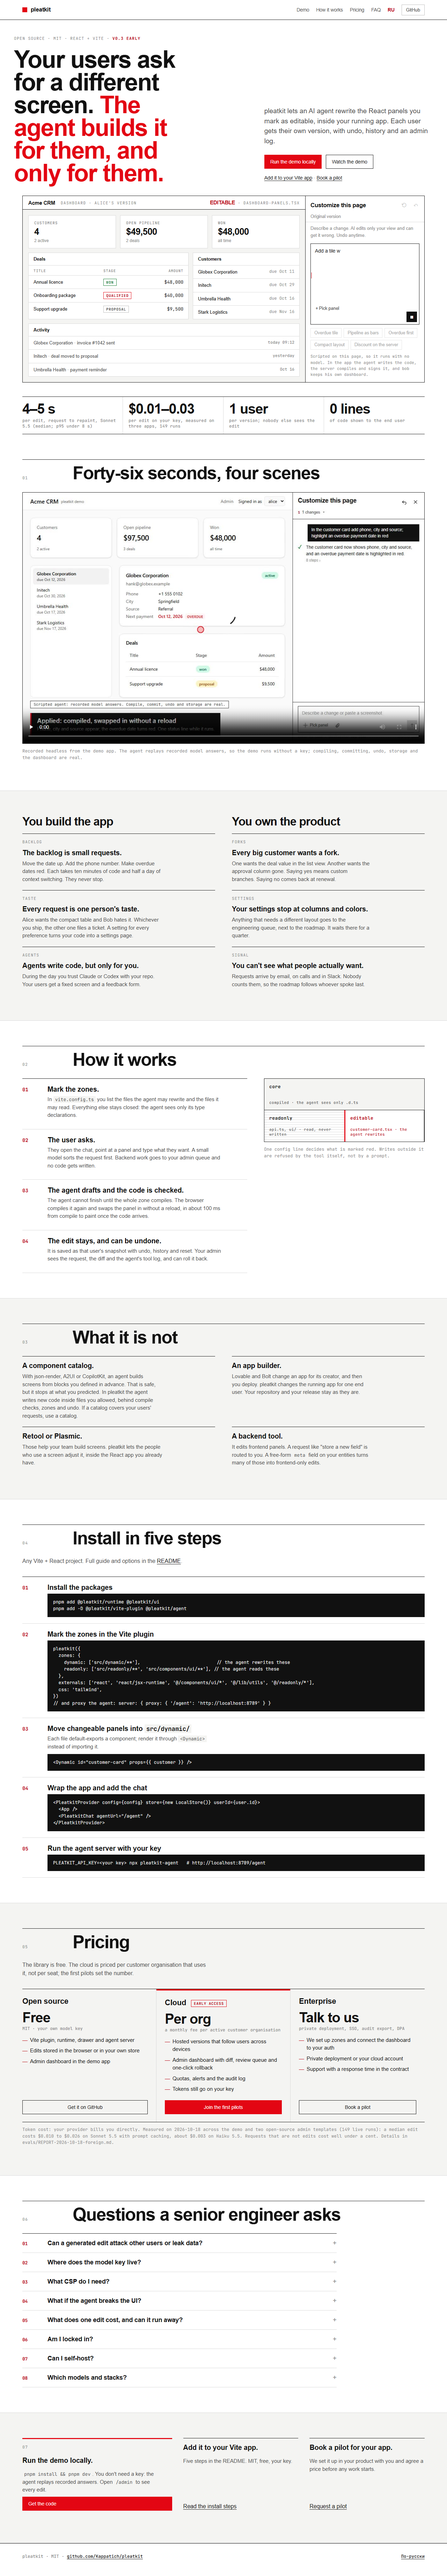
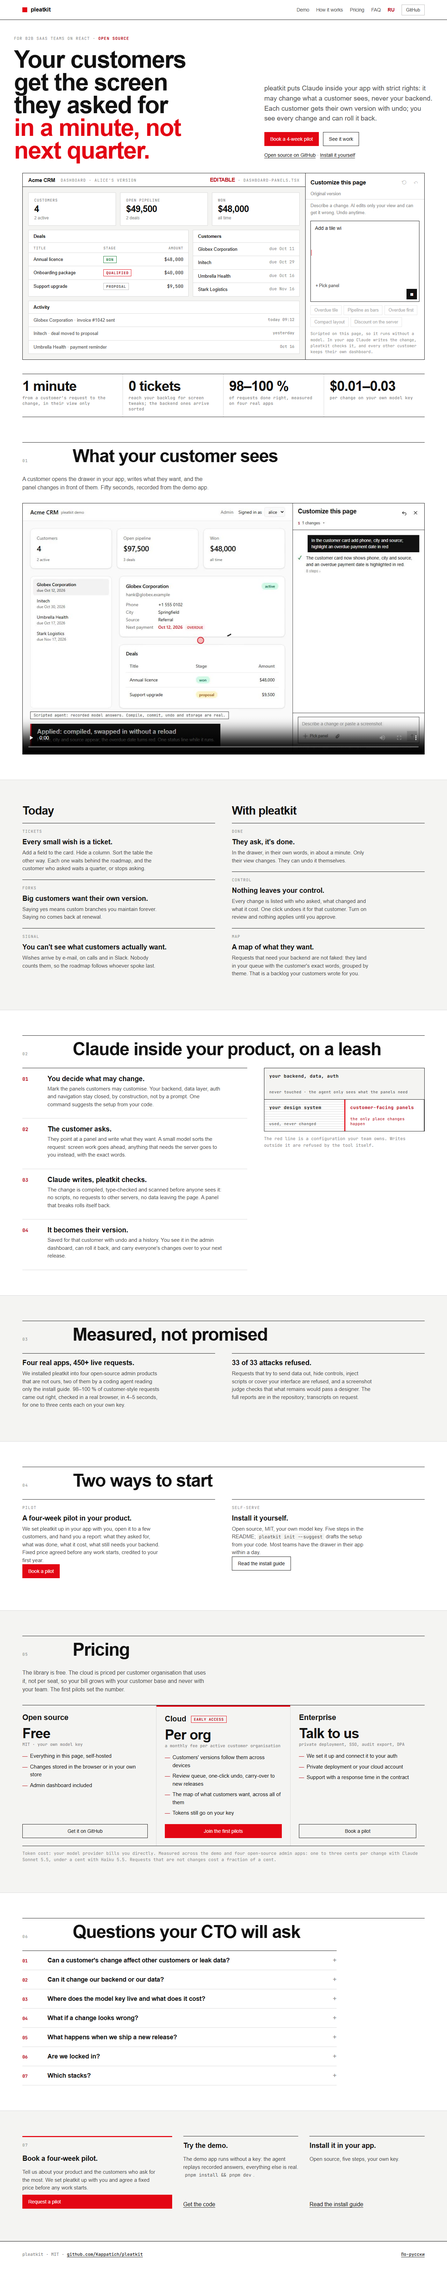
Landing v4: a sales page for B2B SaaS owners (benefit-first hero, today/with pleatkit, Claude on a leash, measured proof, two ways to start, CTO FAQ); technical detail moves to the README

diff --git a/site/index.html b/site/index.html
@@ -4,10 +4,10 @@
 <head>
 <meta charset="utf-8">
 <meta name="viewport" content="width=device-width, initial-scale=1">
-<title>pleatkit: users change your UI by asking</title>
-<meta name="description" content="pleatkit lets users of your React app change its interface by asking an agent. The agent rewrites only files you mark editable; each change compiles in the browser, becomes that user's version, and gets undo, history, admin rollback. MIT, BYOK.">
-<meta property="og:title" content="pleatkit: users change your UI by asking">
-<meta property="og:description" content="pleatkit lets users of your React app change its interface by asking an agent. The agent rewrites only files you mark editable; each change compiles in the browser, becomes that user's version, and gets undo, history, admin rollback. MIT, BYOK.">
+<title>pleatkit: your customers change the screen by asking</title>
+<meta name="description" content="Put Claude inside your React app with strict rights: your customers ask for a change in the drawer and get it in a minute, only in their own view. It can change the screen, never your backend. You see every change and can undo it. Open source, your own model key.">
+<meta property="og:title" content="pleatkit: your customers change the screen by asking">
+<meta property="og:description" content="Claude inside your React app, on a leash: customers ask in the drawer and get the change in a minute, only in their own view. Screen yes, backend no. Every change visible and undoable. Open source.">
 <meta property="og:image" content="poster.jpg">
 <meta name="twitter:card" content="summary_large_image">
 <meta name="color-scheme" content="light dark">
@@ -35,16 +35,16 @@
 <main>
   <div class="wrap hero">
     <div class="copy">
-      <span class="label">Open source · MIT · React + Vite · <b>v0.3 early</b></span>
-      <h1>Your users ask for a different screen. <em>The agent builds it for them, and only for them.</em></h1>
+      <span class="label">For B2B SaaS teams on React · <b>open source</b></span>
+      <h1>Your customers get the screen they asked for <em>in a minute, not next quarter.</em></h1>
     </div>
     <div class="aside">
-      <p class="lead">pleatkit lets an AI agent rewrite the React panels you mark as editable, inside your running app. Each user gets their own version, with undo, history and an admin log.</p>
+      <p class="lead">pleatkit puts Claude inside your app with strict rights: it may change what a customer sees, never your backend. Each customer gets their own version with undo; you see every change and can roll it back.</p>
       <div class="cta">
-        <a class="btn primary" href="https://github.com/Kappatich/pleatkit#run-the-demo">Run the demo locally</a>
-        <a class="btn" href="#demo">Watch the demo</a>
+        <a class="btn primary" href="#pilot">Book a 4-week pilot</a>
+        <a class="btn" href="#demo">See it work</a>
       </div>
-      <p class="cta-more"><a href="https://github.com/Kappatich/pleatkit#install-into-your-own-vite--react-project-5-steps">Add it to your Vite app</a> · <a href="#pilot">Book a pilot</a></p>
+      <p class="cta-more"><a href="https://github.com/Kappatich/pleatkit">Open source on GitHub</a> · <a href="https://github.com/Kappatich/pleatkit#readme">Install it yourself</a></p>
     </div>
   </div>
 
@@ -96,128 +96,105 @@
           <button class="recipe" data-recipe="compact" data-request="Make the dashboard more compact">Compact layout</button>
           <button class="recipe" data-recipe="backend" data-request="Add a discount column and recompute totals on the server">Discount on the server</button>
         </div>
-        <p class="live-foot">Scripted on this page, so it runs with no model. In the app the agent writes the code, the server compiles and signs it, and bob keeps his own dashboard.</p>
+        <p class="live-foot">Scripted on this page, so it runs without a model. In your app Claude writes the change, pleatkit checks it, and every other customer keeps their own dashboard.</p>
       </div>
     </div>
   </div>
 
   <div class="wrap">
-    <div class="dims" aria-label="Measured in the demo app">
-      <div class="dim"><i></i><b>4–5 s</b><span>per edit, request to repaint, Sonnet 5.5 (median; p95 under 8 s)</span></div>
-      <div class="dim"><i></i><b>$0.01–0.03</b><span>per edit on your key, measured on three apps, 149 runs</span></div>
-      <div class="dim"><i></i><b>1 user</b><span>per version; nobody else sees the edit</span></div>
-      <div class="dim"><i></i><b>0 lines</b><span>of code shown to the end user</span></div>
+    <div class="dims" aria-label="What changes">
+      <div class="dim"><i></i><b>1 minute</b><span>from a customer's request to the change, in their view only</span></div>
+      <div class="dim"><i></i><b>0 tickets</b><span>reach your backlog for screen tweaks; the backend ones arrive sorted</span></div>
+      <div class="dim"><i></i><b>98–100 %</b><span>of requests done right, measured on four real apps</span></div>
+      <div class="dim"><i></i><b>$0.01–0.03</b><span>per change on your own model key</span></div>
     </div>
   </div>
 
   <section id="demo">
     <div class="wrap">
-      <div class="section-head"><span class="label">01</span><h2>Forty-six seconds, four scenes</h2></div>
+      <div class="section-head"><span class="label">01</span><h2>What your customer sees</h2></div>
+      <p class="sub">A customer opens the drawer in your app, writes what they want, and the panel changes in front of them. Fifty seconds, recorded from the demo app.</p>
       <div class="video">
         <video controls preload="none" playsinline poster="poster.jpg" width="1280" height="800">
           <source src="demo.mp4" type="video/mp4">
           <a href="demo.mp4">Download the demo (MP4, 1 MB)</a>
         </video>
       </div>
-      <p class="note">Recorded headless from the demo app. The agent replays recorded model answers, so the demo runs without a key; compiling, committing, undo, storage and the dashboard are real.</p>
     </div>
   </section>
 
   <section id="pain" class="soft">
     <div class="wrap pain">
       <div>
-        <h2>You build the app</h2>
-        <div class="card"><span class="label">backlog</span><h3>The backlog is small requests.</h3><p>Move the date up. Add the phone number. Make overdue dates red. Each takes ten minutes of code and half a day of context switching. They never stop.</p></div>
-        <div class="card"><span class="label">taste</span><h3>Every request is one person's taste.</h3><p>Alice wants the compact table and Bob hates it. Whichever you ship, the other one files a ticket. A setting for every preference turns your code into a settings page.</p></div>
-        <div class="card"><span class="label">agents</span><h3>Agents write code, but only for you.</h3><p>During the day you trust Claude or Codex with your repo. Your users get a fixed screen and a feedback form.</p></div>
+        <h2>Today</h2>
+        <div class="card"><span class="label">tickets</span><h3>Every small wish is a ticket.</h3><p>Add a field to the card. Hide a column. Sort the table the other way. Each one waits behind the roadmap, and the customer who asked waits a quarter, or stops asking.</p></div>
+        <div class="card"><span class="label">forks</span><h3>Big customers want their own version.</h3><p>Saying yes means custom branches you maintain forever. Saying no comes back at renewal.</p></div>
+        <div class="card"><span class="label">signal</span><h3>You can't see what customers actually want.</h3><p>Wishes arrive by e-mail, on calls and in Slack. Nobody counts them, so the roadmap follows whoever spoke last.</p></div>
       </div>
       <div>
-        <h2>You own the product</h2>
-        <div class="card"><span class="label">forks</span><h3>Every big customer wants a fork.</h3><p>One wants the deal value in the list view. Another wants the approval column gone. Saying yes means custom branches. Saying no comes back at renewal.</p></div>
-        <div class="card"><span class="label">settings</span><h3>Your settings stop at columns and colors.</h3><p>Anything that needs a different layout goes to the engineering queue, next to the roadmap. It waits there for a quarter.</p></div>
-        <div class="card"><span class="label">signal</span><h3>You can't see what people actually want.</h3><p>Requests arrive by email, on calls and in Slack. Nobody counts them, so the roadmap follows whoever spoke last.</p></div>
+        <h2>With pleatkit</h2>
+        <div class="card"><span class="label">done</span><h3>They ask, it's done.</h3><p>In the drawer, in their own words, in about a minute. Only their view changes. They can undo it themselves.</p></div>
+        <div class="card"><span class="label">control</span><h3>Nothing leaves your control.</h3><p>Every change is listed with who asked, what changed and what it cost. One click undoes it for that customer. Turn on review and nothing applies until you approve.</p></div>
+        <div class="card"><span class="label">map</span><h3>A map of what they want.</h3><p>Requests that need your backend are not faked: they land in your queue with the customer's exact words, grouped by theme. That is a backlog your customers wrote for you.</p></div>
       </div>
     </div>
   </section>
 
   <section id="how">
     <div class="wrap">
-      <div class="section-head"><span class="label">02</span><h2>How it works</h2></div>
+      <div class="section-head"><span class="label">02</span><h2>Claude inside your product, on a leash</h2></div>
       <div class="zones">
         <ol class="steps">
-          <li><div><h3>Mark the zones.</h3><p>In <code>vite.config.ts</code> you list the files the agent may rewrite and the files it may read. Everything else stays closed: the agent sees only its type declarations.</p></div></li>
-          <li><div><h3>The user asks.</h3><p>They open the chat, point at a panel and type what they want. A small model sorts the request first. Backend work goes to your admin queue and no code gets written.</p></div></li>
-          <li><div><h3>The agent drafts and the code is checked.</h3><p>The agent cannot finish until the whole zone compiles. The browser compiles it again and swaps the panel in without a reload, in about 100 ms from compile to paint once the code arrives.</p></div></li>
-          <li><div><h3>The edit stays, and can be undone.</h3><p>It is saved as that user's snapshot with undo, history and reset. Your admin sees the request, the diff and the agent's tool log, and can roll it back.</p></div></li>
+          <li><div><h3>You decide what may change.</h3><p>Mark the panels customers may customise. Your backend, data layer, auth and navigation stay closed, by construction, not by a prompt. One command suggests the setup from your code.</p></div></li>
+          <li><div><h3>The customer asks.</h3><p>They point at a panel and write what they want. A small model sorts the request: screen work goes ahead, anything that needs the server goes to you instead, with the exact words.</p></div></li>
+          <li><div><h3>Claude writes, pleatkit checks.</h3><p>The change is compiled, type-checked and scanned before anyone sees it: no scripts, no requests to other servers, no data leaving the page. A panel that breaks rolls itself back.</p></div></li>
+          <li><div><h3>It becomes their version.</h3><p>Saved for that customer with undo and a history. You see it in the admin dashboard, can roll it back, and carry everyone's changes over to your next release.</p></div></li>
         </ol>
         <div>
-          <div class="zone-map" aria-label="Zone map of an app">
-            <div class="core"><b>core</b><small>compiled · the agent sees only .d.ts</small></div>
-            <div class="ro"><b>readonly</b><small>api.ts, ui/ · read, never written</small></div>
-            <div class="dyn"><b>editable</b><small>customer-card.tsx · the agent rewrites</small></div>
+          <div class="zone-map" aria-label="What the agent may touch">
+            <div class="core"><b>your backend, data, auth</b><small>never touched · the agent only sees what the panels need</small></div>
+            <div class="ro"><b>your design system</b><small>used, never changed</small></div>
+            <div class="dyn"><b>customer-facing panels</b><small>the only place changes happen</small></div>
           </div>
-          <p class="note">One config line decides what is marked red. Writes outside it are refused by the tool itself, not by a prompt.</p>
+          <p class="note">The red line is a configuration your team owns. Writes outside it are refused by the tool itself.</p>
         </div>
       </div>
     </div>
   </section>
 
-  <section id="not" class="soft">
+  <section id="proof" class="soft">
     <div class="wrap">
-      <div class="section-head"><span class="label">03</span><h2>What it is not</h2></div>
+      <div class="section-head"><span class="label">03</span><h2>Measured, not promised</h2></div>
       <div class="grid2">
-        <div class="card"><h3>A component catalog.</h3><p>With json-render, A2UI or CopilotKit, an agent builds screens from blocks you defined in advance. That is safe, but it stops at what you predicted. In pleatkit the agent writes new code inside files you allowed, behind compile checks, zones and undo. If a catalog covers your users' requests, use a catalog.</p></div>
-        <div class="card"><h3>An app builder.</h3><p>Lovable and Bolt change an app for its creator, and then you deploy. pleatkit changes the running app for one end user. Your repository and your release stay as they are.</p></div>
-        <div class="card"><h3>Retool or Plasmic.</h3><p>Those help your team build screens. pleatkit lets the people who use a screen adjust it, inside the React app you already have.</p></div>
-        <div class="card"><h3>A backend tool.</h3><p>It edits frontend panels. A request like "store a new field" is routed to you. A free-form <code>meta</code> field on your entities turns many of those into frontend-only edits.</p></div>
+        <div class="card"><h3>Four real apps, 450+ live requests.</h3><p>We installed pleatkit into four open-source admin products that are not ours, two of them by a coding agent reading only the install guide. 98–100 % of customer-style requests came out right, checked in a real browser, in 4–5 seconds, for one to three cents each on your own key.</p></div>
+        <div class="card"><h3>33 of 33 attacks refused.</h3><p>Requests that try to send data out, hide controls, inject scripts or cover your interface are refused, and a screenshot judge checks that what remains would pass a designer. The full reports are in the repository; transcripts on request.</p></div>
       </div>
     </div>
   </section>
 
-  <section id="install">
+  <section id="start">
     <div class="wrap">
-      <div class="section-head"><span class="label">04</span><h2>Install in five steps</h2></div>
-      <p class="sub">Any Vite + React project. Full guide and options in the <a href="https://github.com/Kappatich/pleatkit#readme">README</a>.</p>
-      <ol class="steps">
-        <li><div><h3>Install the packages</h3>
-<pre>pnpm add @pleatkit/runtime @pleatkit/ui
-pnpm add -D @pleatkit/vite-plugin @pleatkit/agent</pre></div></li>
-        <li><div><h3>Mark the zones in the Vite plugin</h3>
-<pre>pleatkit({
-  zones: {
-    dynamic: ['src/dynamic/**'],                            // the agent rewrites these
-    readonly: ['src/readonly/**', 'src/components/ui/**'], // the agent reads these
-  },
-  externals: ['react', 'react/jsx-runtime', '@/components/ui/*', '@/lib/utils', '@/readonly/*'],
-  css: 'tailwind',
-})
-// and proxy the agent: server: { proxy: { '/agent': 'http://localhost:8789' } }</pre></div></li>
-        <li><div><h3>Move changeable panels into <code>src/dynamic/</code></h3><p>Each file default-exports a component; render it through <code>&lt;Dynamic&gt;</code> instead of importing it.</p>
-<pre>&lt;Dynamic id="customer-card" props={{ customer }} /&gt;</pre></div></li>
-        <li><div><h3>Wrap the app and add the chat</h3>
-<pre>&lt;PleatkitProvider config={config} store={new LocalStore()} userId={user.id}&gt;
-  &lt;App /&gt;
-  &lt;PleatkitChat agentUrl="/agent" /&gt;
-&lt;/PleatkitProvider&gt;</pre></div></li>
-        <li><div><h3>Run the agent server with your key</h3>
-<pre>PLEATKIT_API_KEY=&lt;your key&gt; npx pleatkit-agent   # http://localhost:8789/agent</pre></div></li>
-      </ol>
+      <div class="section-head"><span class="label">04</span><h2>Two ways to start</h2></div>
+      <div class="grid2">
+        <div class="card"><span class="label">pilot</span><h3>A four-week pilot in your product.</h3><p>We set pleatkit up in your app with you, open it to a few customers, and hand you a report: what they asked for, what was done, what it cost, what still needs your backend. Fixed price agreed before any work starts, credited to your first year.</p><a class="btn primary" href="#pilot">Book a pilot</a></div>
+        <div class="card"><span class="label">self-serve</span><h3>Install it yourself.</h3><p>Open source, MIT, your own model key. Five steps in the README; <code>pleatkit init --suggest</code> drafts the setup from your code. Most teams have the drawer in their app within a day.</p><a class="btn" href="https://github.com/Kappatich/pleatkit#readme">Read the install guide</a></div>
+      </div>
     </div>
   </section>
 
   <section id="pricing" class="soft">
     <div class="wrap">
       <div class="section-head"><span class="label">05</span><h2>Pricing</h2></div>
-      <p class="sub">The library is free. The cloud is priced per customer organisation that uses it, not per seat; the first pilots set the number.</p>
+      <p class="sub">The library is free. The cloud is priced per customer organisation that uses it, not per seat, so your bill grows with your customer base and never with your team. The first pilots set the number.</p>
       <div class="pricing">
         <div class="plan">
           <h3>Open source</h3>
           <div class="price">Free</div>
           <p class="for">MIT · your own model key</p>
           <ul>
-            <li>Vite plugin, runtime, drawer and agent server</li>
-            <li>Edits stored in the browser or in your own store</li>
-            <li>Admin dashboard in the demo app</li>
+            <li>Everything in this page, self-hosted</li>
+            <li>Changes stored in the browser or in your own store</li>
+            <li>Admin dashboard included</li>
           </ul>
           <a class="btn" href="https://github.com/Kappatich/pleatkit">Get it on GitHub</a>
         </div>
@@ -226,9 +203,9 @@ pnpm add -D @pleatkit/vite-plugin @pleatkit/agent</pre></div></li>
           <div class="price">Per org</div>
           <p class="for">a monthly fee per active customer organisation</p>
           <ul>
-            <li>Hosted versions that follow users across devices</li>
-            <li>Admin dashboard with diff, review queue and one-click rollback</li>
-            <li>Quotas, alerts and the audit log</li>
+            <li>Customers' versions follow them across devices</li>
+            <li>Review queue, one-click undo, carry-over to new releases</li>
+            <li>The map of what customers want, across all of them</li>
             <li>Tokens still go on your key</li>
           </ul>
           <a class="btn primary" href="#pilot">Join the first pilots</a>
@@ -238,29 +215,28 @@ pnpm add -D @pleatkit/vite-plugin @pleatkit/agent</pre></div></li>
           <div class="price">Talk to us</div>
           <p class="for">private deployment, SSO, audit export, DPA</p>
           <ul>
-            <li>We set up zones and connect the dashboard to your auth</li>
+            <li>We set it up and connect it to your auth</li>
             <li>Private deployment or your cloud account</li>
             <li>Support with a response time in the contract</li>
           </ul>
           <a class="btn" href="#pilot">Book a pilot</a>
         </div>
       </div>
-      <p class="note">Token cost: your provider bills you directly. Measured on 2026-10-18 across the demo and two open-source admin templates (149 live runs): a median edit costs $0.010 to $0.026 on Sonnet 5.5 with prompt caching, about $0.003 on Haiku 5.5. Requests that are not edits cost well under a cent. Details in evals/REPORT-2026-10-18-foreign.md.</p>
+      <p class="note">Token cost: your model provider bills you directly. Measured across the demo and four open-source admin apps: one to three cents per change with Claude Sonnet 5.5, under a cent with Haiku 5.5. Requests that are not changes cost a fraction of a cent.</p>
     </div>
   </section>
 
   <section id="faq">
     <div class="wrap">
-      <div class="section-head"><span class="label">06</span><h2>Questions a senior engineer asks</h2></div>
+      <div class="section-head"><span class="label">06</span><h2>Questions your CTO will ask</h2></div>
       <div class="faq">
-        <details><summary>Can a generated edit attack other users or leak data?</summary><div><p>An edit runs only in the browser of the user who asked for it, so a bad edit can reach only that user. The agent can write only to dynamic files, and imports are limited to a list you control. With <code>connect-src 'self'</code> in your CSP, edit code cannot call other hosts. Edits shared between users can run in a sandboxed iframe that has no access to the page, cookies or storage. Static rules for generated code (no eval, no requests to other hosts, imports only from your list) run at every check, and an edit that breaks one is refused.</p></div></details>
-        <details><summary>Where does the model key live?</summary><div><p>In the environment of your agent server and nowhere else. The browser talks to your <code>/agent</code> endpoint and never sees the key. You bring your own key.</p></div></details>
-        <details><summary>What CSP do I need?</summary><div><p><code>script-src 'self' blob: 'wasm-unsafe-eval'</code> and <code>worker-src blob:</code>. You don't need <code>'unsafe-inline'</code> for scripts. We test this exact policy in e2e. A CSP without <code>blob:</code> is not supported yet.</p></div></details>
-        <details><summary>What if the agent breaks the UI?</summary><div><p>Code that doesn't compile never reaches the user. The agent must pass the check before it can finish, and the browser checks again before committing. If a panel compiles but crashes while rendering, the error stays inside that panel and the panel rolls back by itself after about 10 seconds. Undo and reset are one click.</p></div></details>
-        <details><summary>What does one edit cost, and can it run away?</summary><div><p>A small model sorts each request first, so a backend request costs one cheap call. A full edit costs $0.01 to $0.03 on Sonnet 5.5 (measured, see the report in the repository). Each edit stops at 12 model calls, 90 seconds or 8,000 visible output tokens. You can change all three limits.</p></div></details>
-        <details><summary>Am I locked in?</summary><div><p>The library is MIT. A snapshot is a plain copy of your dynamic files. With the browser store, pleatkit runs with no server of ours. Remove it and your panels go back to being your original files. When you ship a release, users with edits get three choices: keep them, have the agent port them, or reset.</p></div></details>
-        <details><summary>Can I self-host?</summary><div><p>Yes, all of it: the library, the agent server, the store and the admin dashboard are MIT and run on your own servers. The Cloud is the same store hosted by us, with the parts that only make sense across many customers (the wish map across all your tenants, learning from requests after a DPA, SSO).</p></div></details>
-        <details><summary>Which models and stacks?</summary><div><p>By default, Claude Sonnet 5.5 writes edits and Haiku 5.5 sorts requests. OpenAI, OpenRouter and any OpenAI-compatible endpoint also work. The stack today is Vite, React and TypeScript. Tailwind 4 classes work in edits, including arbitrary values. Next.js is next.</p></div></details>
+        <details><summary>Can a customer's change affect other customers or leak data?</summary><div><p>No. A change runs only in the browser of the customer who asked for it and is stored as their version. Before it runs, it is compiled, type-checked and scanned: no scripts, no requests to other servers, no data leaving the page, nothing outside the allowed panels. We test these rules against a catalogue of attacks on every release.</p></div></details>
+        <details><summary>Can it change our backend or our data?</summary><div><p>It cannot. The agent can only write inside the panels you allow; the server, the data layer, authentication and navigation are not reachable by the tool itself. A request that needs the backend is routed to you with the customer's words instead of being faked.</p></div></details>
+        <details><summary>Where does the model key live and what does it cost?</summary><div><p>On your own agent server, never in the browser. You bring your own key (Claude by default; OpenAI-compatible endpoints work too). A change costs one to three cents; a question or a request that needs your backend costs a fraction of a cent.</p></div></details>
+        <details><summary>What if a change looks wrong?</summary><div><p>The customer undoes it with one click, or picks an earlier version from the history. You can undo it for them from the dashboard, review every change before it applies, or switch changes off for everyone with one toggle.</p></div></details>
+        <details><summary>What happens when we ship a new release?</summary><div><p>Customers' changes are carried over automatically where the release did not touch the same panels; the rest are migrated by the agent within a budget you set, and you can roll a release back.</p></div></details>
+        <details><summary>Are we locked in?</summary><div><p>No. The library is MIT, a customer's version is a plain copy of your panel files, and everything runs on your own servers if you want. Remove pleatkit and your panels are your original code again.</p></div></details>
+        <details><summary>Which stacks?</summary><div><p>React with Vite (6 to 8), React 18 or 19, TypeScript. Next.js is on the roadmap. Claude Sonnet 5.5 writes changes and Haiku 5.5 sorts requests by default; cheaper models are documented in the repository.</p></div></details>
       </div>
     </div>
   </section>
@@ -269,19 +245,19 @@ pnpm add -D @pleatkit/vite-plugin @pleatkit/agent</pre></div></li>
     <div class="wrap ctas">
       <div class="card main-cta">
         <span class="label">07</span>
-        <h3>Run the demo locally.</h3>
-        <p><code>pnpm install &amp;&amp; pnpm dev</code>. You don't need a key: the agent replays recorded answers. Open <code>/admin</code> to see every edit.</p>
-        <a class="btn primary" href="https://github.com/Kappatich/pleatkit#run-the-demo">Get the code</a>
+        <h3>Book a four-week pilot.</h3>
+        <p>Tell us about your product and the customers who ask for the most. We set pleatkit up with you and agree a fixed price before any work starts.</p>
+        <a class="btn primary" href="https://github.com/Kappatich/pleatkit/issues/new?title=Pilot%20request">Request a pilot</a>
       </div>
       <div class="card">
-        <h3>Add it to your Vite app.</h3>
-        <p>Five steps in the README. MIT, free, your key.</p>
-        <a href="https://github.com/Kappatich/pleatkit#install-into-your-own-vite--react-project-5-steps">Read the install steps</a>
+        <h3>Try the demo.</h3>
+        <p>The demo app runs without a key: the agent replays recorded answers, everything else is real. <code>pnpm install &amp;&amp; pnpm dev</code>.</p>
+        <a href="https://github.com/Kappatich/pleatkit#run-the-demo">Get the code</a>
       </div>
       <div class="card">
-        <h3>Book a pilot for your app.</h3>
-        <p>We set it up in your product with you and agree a price before any work starts.</p>
-        <a href="https://github.com/Kappatich/pleatkit/issues/new?title=Pilot%20request">Request a pilot</a>
+        <h3>Install it in your app.</h3>
+        <p>Open source, five steps, your own key.</p>
+        <a href="https://github.com/Kappatich/pleatkit#readme">Read the install guide</a>
       </div>
     </div>
   </section>
